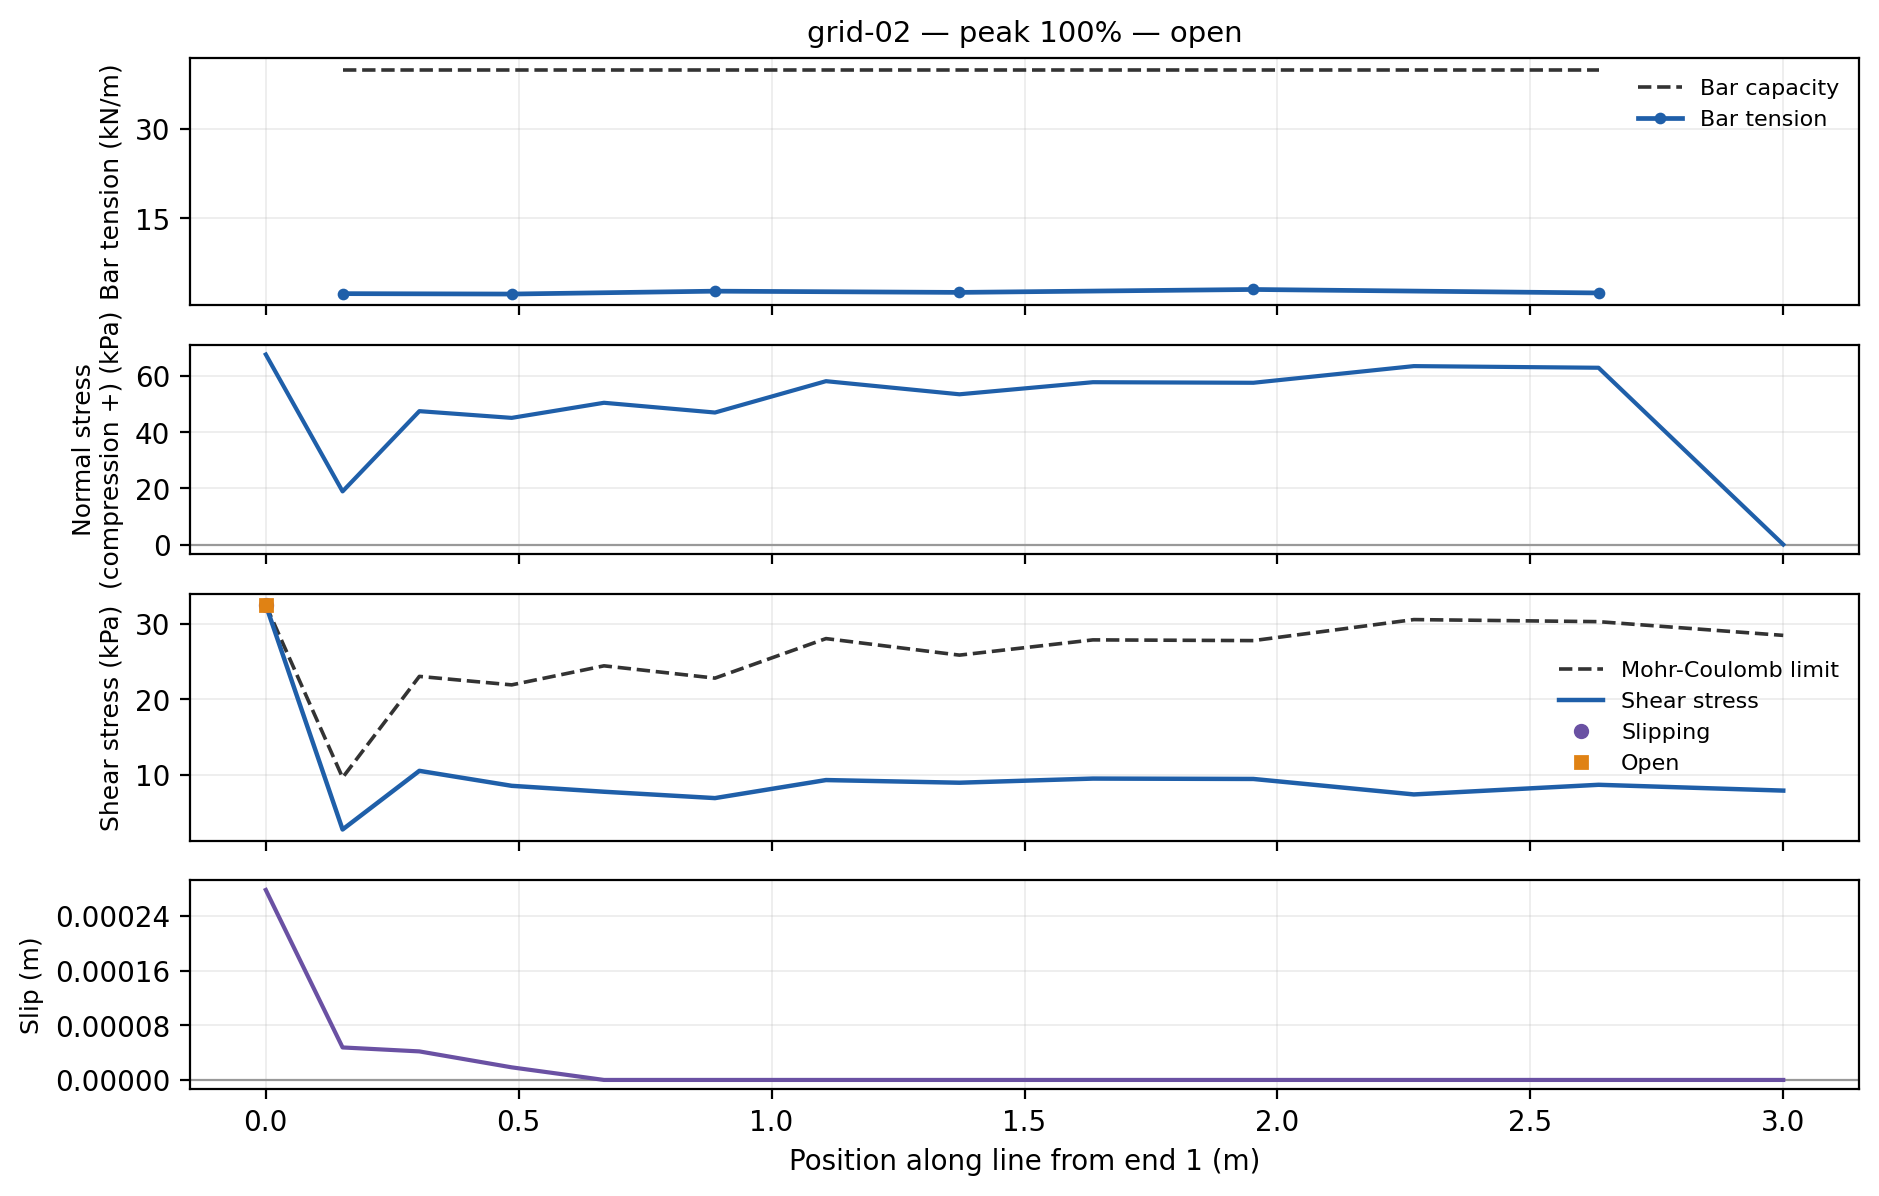
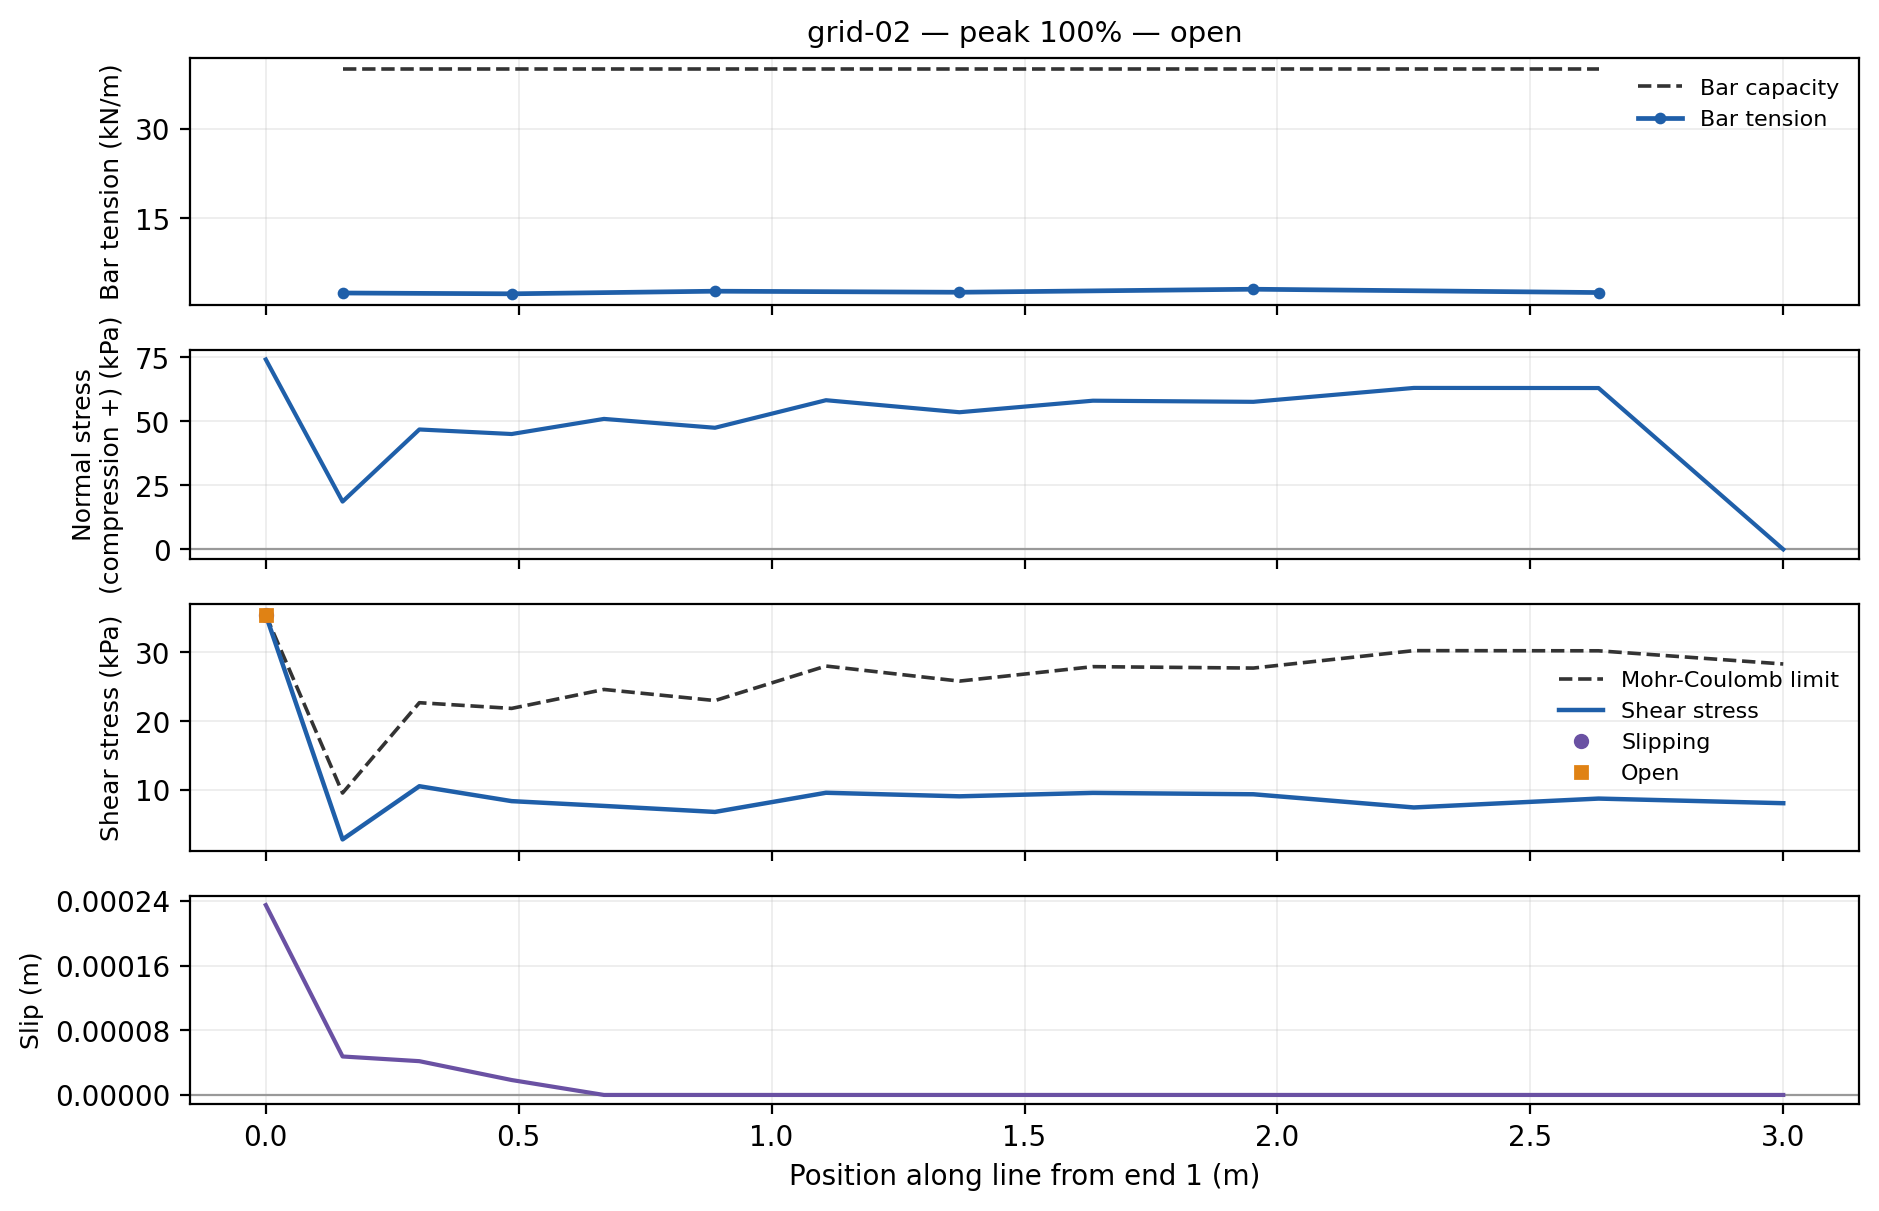
docs(tutorials): FEM-3 wall and geogrid panels captured in both field states; the page still shows last converged
Claude-Session: https://claude.ai/code/session_01XjjT2aBxw8gY7EFdpoUcpj

diff --git a/tools/make_block_wall_figures.py b/tools/make_block_wall_figures.py
@@ -395,11 +395,9 @@ def fem03_wall():
     _counts("wall", wall, mesh, fem_data)
     _report("wall", result, seconds)
     _joints(wall, fem_data, result, dump="wall")
-    capture("fem03_fem_blocks.png", plot_fem_results, fem_data,
-            result["last_solution"], plot_type="displace_vector",
-            fs=result["FS"])
-    capture("fem03_fem_shear.png", plot_fem_results, fem_data,
-            result["last_solution"], plot_type="shear_strain", fs=result["FS"])
+    _both_states("fem03_fem_blocks.png", fem_data, result, "displace_vector")
+    _both_states("fem03_fem_shear.png", fem_data, result, "shear_strain")
+    _keep_solution("wall", fem_data, result)
 
     # The back face's 1D details: the panel the page's slip table is read from,
     # shown for the contact that carries the failure so the reader can see the
@@ -441,11 +439,9 @@ def fem03_grid():
     _counts("wall + grid", grid, mesh, fem_data)
     _report("wall + grid", result, seconds)
     _joints(grid, fem_data, result, dump="grid")
-    capture("fem03_fem_blocks_grid.png", plot_fem_results, fem_data,
-            result["last_solution"], plot_type="displace_vector",
-            fs=result["FS"])
-    capture("fem03_fem_shear_grid.png", plot_fem_results, fem_data,
-            result["last_solution"], plot_type="shear_strain", fs=result["FS"])
+    _both_states("fem03_fem_blocks_grid.png", fem_data, result, "displace_vector")
+    _both_states("fem03_fem_shear_grid.png", fem_data, result, "shear_strain")
+    _keep_solution("wall_grid", fem_data, result)
 
     last = result["last_solution"]
     rows = fem_details.list_lines(fem_data, last, grid)
@@ -515,8 +511,46 @@ def fem03_sheets():
         _report(label, result, seconds)
         if (fem_data.get("joint_data") or {}).get("n"):
             _joints(model, fem_data, result)
+        # Both field states, so the page can choose: the last converged trial
+        # (the slope still standing) and the captured at-failure state (the
+        # mechanism). The solve itself is kept beside the report so either can
+        # be redrawn without re-solving.
+        fail = result.get("failure_solution")
         capture(name, plot_fem_results, fem_data, result["last_solution"],
-                plot_type="shear_strain", fs=result["FS"])
+                plot_type="shear_strain", fs=result["FS"], failure_solution=fail,
+                field_state="converged")
+        if fail is not None:
+            capture(name.replace(".png", "_failure.png"), plot_fem_results,
+                    fem_data, result["last_solution"], plot_type="shear_strain",
+                    fs=result["FS"], failure_solution=fail, field_state="failure")
+        _keep_solution(label, fem_data, result)
+
+
+def _both_states(name, fem_data, result, plot_type):
+    """One results panel in both field states: the last converged trial under
+    ``name`` and the captured at-failure state under ``name`` + ``_failure``."""
+    from xslope.plot_fem import plot_fem_results
+
+    fail = result.get("failure_solution")
+    capture(name, plot_fem_results, fem_data, result["last_solution"],
+            plot_type=plot_type, fs=result["FS"], failure_solution=fail,
+            field_state="converged")
+    if fail is not None:
+        capture(name.replace(".png", "_failure.png"), plot_fem_results, fem_data,
+                result["last_solution"], plot_type=plot_type, fs=result["FS"],
+                failure_solution=fail, field_state="failure")
+
+
+def _keep_solution(label, fem_data, result):
+    """Pickle a part 3 solve under the private campaign directory so both field
+    states can be redrawn and compared without the solve."""
+    import pickle
+
+    d = os.path.join(os.path.expanduser("~"), "python_projects", "xslope_private",
+                     "reports", "campaign_joints_2026-09", "fem03_part3_solutions")
+    os.makedirs(d, exist_ok=True)
+    with open(os.path.join(d, "%s.pkl" % label.replace(" ", "_")), "wb") as fh:
+        pickle.dump({"fem_data": fem_data, "result": result}, fh)
 
 
 GROUPS = {

diff --git a/tools/build_block_wall.py b/tools/build_block_wall.py
@@ -255,6 +255,10 @@ def build_wall_grid():
 
 # ---- part 3 -----------------------------------------------------------------
 
+#: Cohesion of the part 3 embankment fill, kPa. See build_base_geotextile.
+EMB_FILL_C = 5.0
+
+
 def emb_polygons(clay_y0):
     return [
         poly([(0.0, clay_y0), (EMB_X1, clay_y0), (EMB_X1, 0.0), (0.0, 0.0)], 0),
@@ -266,11 +270,16 @@ def emb_polygons(clay_y0):
 def build_base_geotextile(is_joint):
     """An embankment on soft clay over a base geotextile.  The critical surface
     cuts up through the fill and crosses the sheet, so the sheet carries tension
-    across it either way it is modeled."""
+    across it either way it is modeled.
+
+    The fill carries EMB_FILL_C of cohesion: a cohesionless fill at 34 degrees
+    on 2:1 slopes fails on its own face at tan(34)/tan(26.6) = 1.35, shallower
+    than anything through the clay, and that face governed every run of the
+    first cut of these models without touching the sheet."""
     sd = _base()
     t = sd["materials"][0]
     mats = [mat(t, "soft clay", gamma=17.0, c=20.0, phi=0.0, E=8000.0, nu=0.35),
-            mat(t, "embankment fill", gamma=20.0, c=0.0, phi=34.0,
+            mat(t, "embankment fill", gamma=20.0, c=EMB_FILL_C, phi=34.0,
                 E=25000.0, nu=0.3)]
     line = [sheet("base geotextile", (EMB_TOE_L, 0.0), (EMB_TOE_R, 0.0),
                   t_max=100.0, adhesion=5.0, delta=20.0, E=2.0e6,
@@ -288,14 +297,15 @@ def build_liner(is_joint):
     t = sd["materials"][0]
     mats = [mat(t, "foundation", gamma=20.0, c=30.0, phi=32.0,
                 E=50000.0, nu=0.3),
-            mat(t, "embankment fill", gamma=20.0, c=0.0, phi=34.0,
+            mat(t, "embankment fill", gamma=20.0, c=EMB_FILL_C, phi=34.0,
                 E=25000.0, nu=0.3)]
     line = [sheet("liner", (EMB_TOE_L, 0.0), (EMB_TOE_R, 0.0),
                   t_max=50.0, adhesion=0.5, delta=10.0, E=2.0e6,
                   is_joint=is_joint)]
-    return model(mats, emb_polygons(-5.0),
-                 {"Xo": 30.0, "Yo": 15.0, "Depth": -5.0, "R": 20.0},
-                 EMB_TARGET_SIZE, reinforcement_lines=line, max_depth=-5.0)
+    # The same 4 m foundation as the geotextile pair: one section, one sketch.
+    return model(mats, emb_polygons(-4.0),
+                 {"Xo": 30.0, "Yo": 15.0, "Depth": -4.0, "R": 19.0},
+                 EMB_TARGET_SIZE, reinforcement_lines=line, max_depth=-4.0)
 
 
 BUILDS = {
